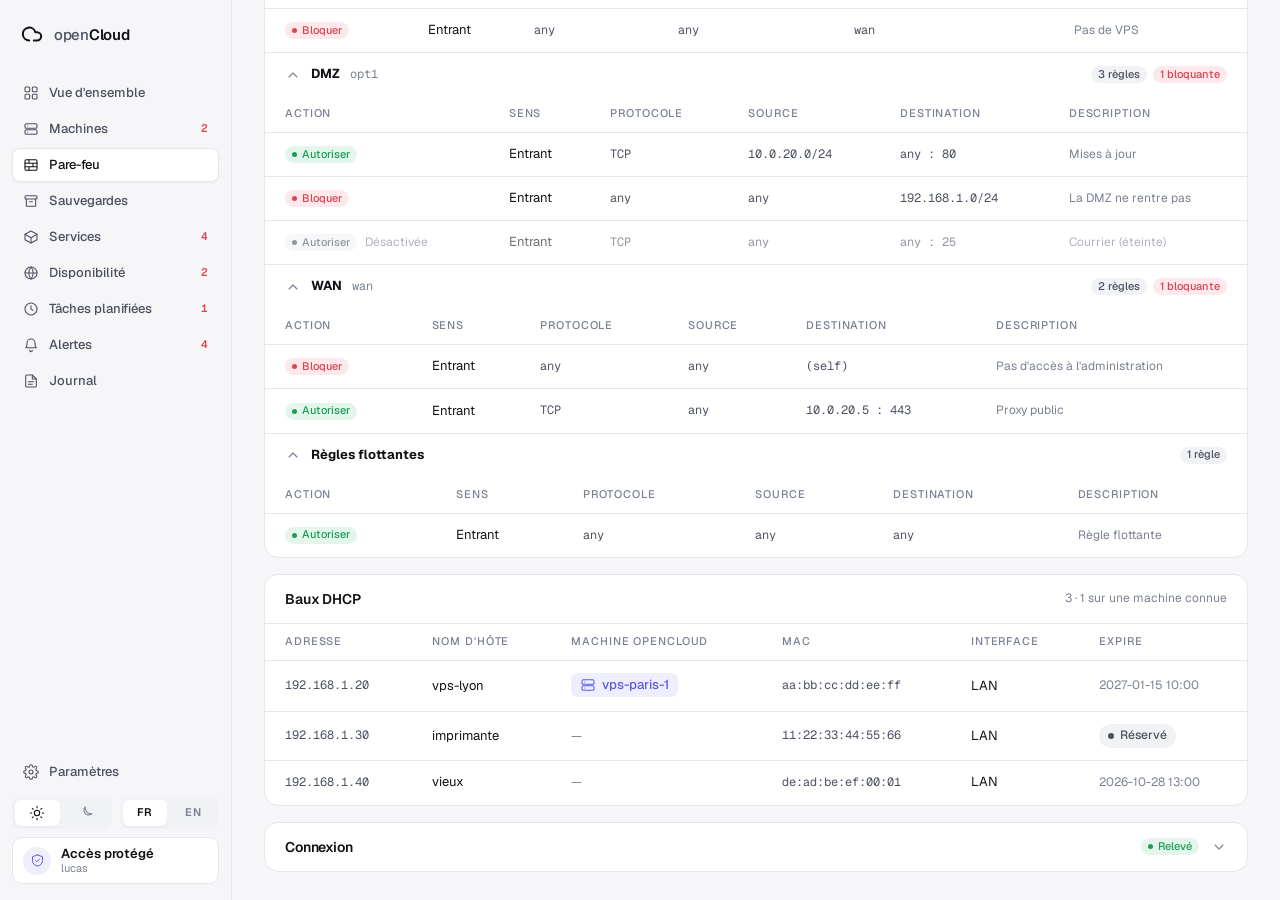
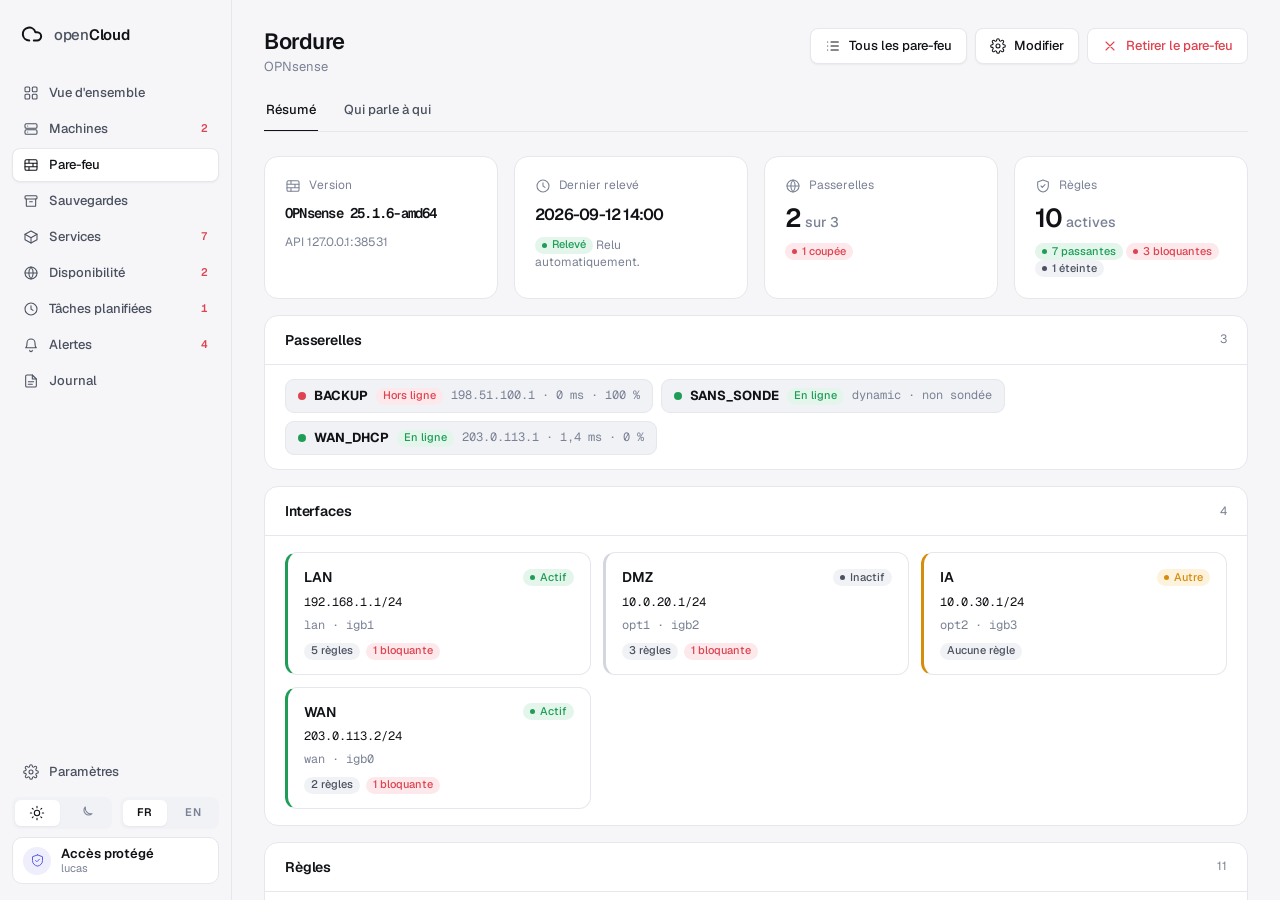
fix(front): clé sans indice dite par un libellé; captures pare-feu depuis le haut de page

diff --git a/web/src/pages/machines/DeclareProxmoxHost.tsx b/web/src/pages/machines/DeclareProxmoxHost.tsx
@@ -10,7 +10,7 @@ import { useAction } from "../../hooks/useAction";
 import { useCertificateInspector, type CertificateInspector } from "../../hooks/useCertificateInspector";
 import { useForm } from "../../hooks/useForm";
 import { useT, type Translate } from "../../i18n/context";
-import { maskCredential } from "../../lib/credential";
+import { credentialText, hintText } from "../../lib/credential";
 import { displayPin } from "../../lib/fingerprint";
 import { isHTTPSAddress } from "../../lib/firewallForm";
 import { detectedProxmox, emptyProxmoxForm, isProxmoxFormModified, proxmoxAccessMissing, proxmoxDefinitionOf, proxmoxFormOf, suggestedProxmoxURL, type ProxmoxFormValues } from "../../lib/proxmox";
@@ -70,7 +70,7 @@ function stepsOf(t: Translate, form: ReturnType<typeof useForm<ProxmoxFormValues
             <Input id="proxmox-url" mono value={values.apiURL} placeholder="https://pve.lan:8006" onChange={(event) => form.change("apiURL", event.target.value)} autoComplete="off" autoFocus />
           </Field>
           <AddressCheck inspector={inspector} isAddressValid={isHTTPSAddress(values.apiURL)} />
-          <Field label={t("machine.proxmox_token_id_label")} htmlFor="proxmox-token-id" help={tokenIDHint === null ? t("machine.proxmox_token_id_help") : t("machine.proxmox_token_id_current", tokenIDHint)}>
+          <Field label={t("machine.proxmox_token_id_label")} htmlFor="proxmox-token-id" help={tokenIDHint === null ? t("machine.proxmox_token_id_help") : t("machine.proxmox_token_id_current", hintText(t, tokenIDHint))}>
             <Input id="proxmox-token-id" mono value={values.tokenID} placeholder="lecteur@pve!lecture" onChange={(event) => form.change("tokenID", event.target.value)} autoComplete="off" />
           </Field>
           <Field label={t("machine.proxmox_secret_label")} htmlFor="proxmox-secret" help={t("machine.proxmox_secret_help")}>
@@ -81,7 +81,7 @@ function stepsOf(t: Translate, form: ReturnType<typeof useForm<ProxmoxFormValues
       validate: () => (proxmoxAccessMissing(values) ? "machine.proxmox_access_missing" : null),
       summary: () => [
         { label: t("machine.proxmox_url_label"), value: values.apiURL.trim(), mono: true },
-        { label: t("machine.proxmox_token_id_label"), value: maskCredential(values.tokenID.trim()), mono: true },
+        { label: t("machine.proxmox_token_id_label"), value: credentialText(t, values.tokenID), mono: true },
         { label: t("machine.proxmox_secret_label"), value: t("machine.proxmox_secret_hidden") },
       ],
     },

diff --git a/web/src/pages/firewalls/FirewallWizard.tsx b/web/src/pages/firewalls/FirewallWizard.tsx
@@ -16,7 +16,7 @@ import { useCertificateInspector, type CertificateInspector } from "../../hooks/
 import { useChecklist } from "../../hooks/useChecklist";
 import { useForm } from "../../hooks/useForm";
 import { useT, type Translate } from "../../i18n/context";
-import { maskCredential } from "../../lib/credential";
+import { credentialText, hintText } from "../../lib/credential";
 import { displayPin } from "../../lib/fingerprint";
 import { isCredential, isHTTPSAddress } from "../../lib/firewallForm";
 import { isFormModified } from "../../lib/modal";
@@ -208,7 +208,7 @@ function stepsOf(
       title: t("firewall.step_access"),
       render: () => (
         <>
-          <Field label={t("firewall.key_label")} htmlFor="firewall-key" help={keyHint === null ? t("firewall.key_help") : t("firewall.key_current", keyHint)}>
+          <Field label={t("firewall.key_label")} htmlFor="firewall-key" help={keyHint === null ? t("firewall.key_help") : t("firewall.key_current", hintText(t, keyHint))}>
             <Input id="firewall-key" mono value={values.apiKey} onChange={(event) => form.change("apiKey", event.target.value)} autoComplete="off" />
           </Field>
           <Field label={t("firewall.secret_label")} htmlFor="firewall-secret" help={t("firewall.secret_help")}>
@@ -223,7 +223,7 @@ function stepsOf(
         return isCredential(values.apiSecret) ? null : "firewall.secret_invalid";
       },
       summary: () => [
-        { label: t("firewall.key_label"), value: maskCredential(values.apiKey.trim()), mono: true },
+        { label: t("firewall.key_label"), value: credentialText(t, values.apiKey), mono: true },
         { label: t("firewall.secret_label"), value: t("firewall.secret_hidden") },
       ],
     },

diff --git a/web/src/components/MachineHypervisor.tsx b/web/src/components/MachineHypervisor.tsx
@@ -26,6 +26,7 @@ import {
 } from "../lib/proxmox";
 import { capabilityLabelKey } from "../lib/machines";
 import { reenrollPath } from "../lib/rights";
+import { hintText } from "../lib/credential";
 import { formatWhen } from "../lib/time";
 import { formatBytes, formatDecimal, meterTone } from "../lib/units";
 import { reasonText } from "./ActionsCard";
@@ -97,7 +98,7 @@ function HostCard({ machine, host }: { machine: Machine; host: ProxmoxHost }) {
         <KeyValue label={t("machine.proxmox_field_api")} value={host.api_url} mono />
         <KeyValue label={t("machine.proxmox_field_version")} value={host.version === "" ? "—" : host.version} mono />
         {host.node !== "" && <KeyValue label={t("machine.proxmox_field_node")} value={host.node} mono />}
-        <KeyValue label={t("machine.proxmox_field_token")} value={host.token_id_hint} mono />
+        <KeyValue label={t("machine.proxmox_field_token")} value={hintText(t, host.token_id_hint)} mono />
         <KeyValue label={t("machine.proxmox_field_read")} value={host.last_read_at === null ? t("machine.proxmox_never_read") : formatWhen(host.last_read_at, now)} />
         <KeyValue label={t("machine.proxmox_field_certificate")} value={host.pin === "" ? t("machine.proxmox_system_trust") : t("machine.proxmox_pinned")} />
         <Failure error={removal.error} />

diff --git a/web/src/pages/firewalls/FirewallConnection.tsx b/web/src/pages/firewalls/FirewallConnection.tsx
@@ -5,6 +5,7 @@ import { Pill } from "../../components/Pill";
 import { useNow } from "../../hooks/useNow";
 import { useT } from "../../i18n/context";
 import { firewallStateLabel, firewallTone } from "../../lib/firewalls";
+import { hintText } from "../../lib/credential";
 import { formatWhen } from "../../lib/time";
 
 // La connexion, repliée : ce qui a servi à la déclarer. La clé n'y figure
@@ -27,7 +28,7 @@ export function FirewallConnection({ firewall }: { firewall: FirewallDetail }) {
           <KeyValue label={t("firewall.field_connector")} value={t(`firewall.kind_${firewall.kind}`)} />
           <KeyValue label={t("firewall.field_api")} value={firewall.api_url} mono />
           <KeyValue label={t("firewall.field_version")} value={firewall.version === "" ? "—" : firewall.version} mono />
-          <KeyValue label={t("firewall.field_key")} value={firewall.api_key_hint} mono />
+          <KeyValue label={t("firewall.field_key")} value={hintText(t, firewall.api_key_hint)} mono />
           <KeyValue label={t("firewall.field_read")} value={firewall.last_read_at === null ? t("firewall.never_read") : formatWhen(firewall.last_read_at, now)} />
           <KeyValue label={t("firewall.field_certificate")} value={firewall.is_pinned ? t("firewall.pinned") : t("firewall.system_trust")} />
         </CardBody>

diff --git a/web/src/lib/credential.ts b/web/src/lib/credential.ts
@@ -1,12 +1,27 @@
+import type { Translate } from "../i18n/context";
+
 // Une clé ou un identifiant de jeton ne s'affiche jamais en entier : ses
 // quatre premiers caractères suffisent à la reconnaître. Même règle que le
 // serveur (httpx.MaskCredential) pour ce qu'il relit.
 const visibleCharacters = 4;
 
-export function maskCredential(value: string): string {
+function maskCredential(value: string): string {
   const characters = Array.from(value);
   if (characters.length <= visibleCharacters) {
     return "…";
   }
   return `${characters.slice(0, visibleCharacters).join("")}…`;
+}
+
+// Ce que l'écran écrit d'une clé : ses quatre premiers caractères, ou un libellé
+// quand il n'y a rien à montrer (valeur pas encore saisie, indice que le serveur
+// ne rend pas à un jeton d'API). Jamais un « … » seul.
+export function credentialText(t: Translate, value: string): string {
+  return value.trim() === "" ? t("credential.not_shown") : maskCredential(value.trim());
+}
+
+// L'indice que le serveur a déjà réduit (api_key_hint, token_id_hint) : tel quel,
+// ou le libellé s'il est vide.
+export function hintText(t: Translate, hint: string): string {
+  return hint === "" ? t("credential.not_shown") : hint;
 }

diff --git a/web/src/lib/credential.test.ts b/web/src/lib/credential.test.ts
@@ -1,14 +1,23 @@
 import { expect, test } from "vitest";
 
-import { maskCredential } from "./credential";
+import type { Translate } from "../i18n/context";
+import { credentialText, hintText } from "./credential";
+
+const t: Translate = (key) => key;
 
 test("ne laisse voir que les quatre premiers caractères", () => {
-  expect(maskCredential("AbCdEfGhIjKl")).toBe("AbCd…");
-  expect(maskCredential("lecteur@pve!lecture")).toBe("lect…");
-  expect(maskCredential("éàüöxyz")).toBe("éàüö…");
+  expect(credentialText(t, "AbCdEfGhIjKl")).toBe("AbCd…");
+  expect(credentialText(t, "lecteur@pve!lecture")).toBe("lect…");
+  expect(credentialText(t, "éàüöxyz")).toBe("éàüö…");
 });
 
 test("une valeur courte ne se montre pas du tout", () => {
-  expect(maskCredential("abcd")).toBe("…");
-  expect(maskCredential("")).toBe("…");
+  expect(credentialText(t, "abcd")).toBe("…");
+});
+
+test("sans valeur, un libellé dit pourquoi : jamais un « … » seul", () => {
+  expect(credentialText(t, "")).toBe("credential.not_shown");
+  expect(credentialText(t, "   ")).toBe("credential.not_shown");
+  expect(hintText(t, "")).toBe("credential.not_shown");
+  expect(hintText(t, "AbCd…")).toBe("AbCd…");
 });

diff --git a/web/e2e/pare-feu-fiche.spec.ts b/web/e2e/pare-feu-fiche.spec.ts
@@ -32,6 +32,9 @@ function shooter(page: Page, theme: "light" | "dark") {
   return async (name: string, fullPage = false) => {
     if (capturing) {
       mkdirSync(captureFolder, { recursive: true });
+      // La barre latérale est collante : une page défilée la décale dans une
+      // capture entière. On revient en haut, comme un lecteur qui la regarde.
+      await page.evaluate(() => window.scrollTo(0, 0));
       await page.screenshot({ path: `${captureFolder}U5-pare-feu-${name}-${suffix}.png`, fullPage });
     }
   };
